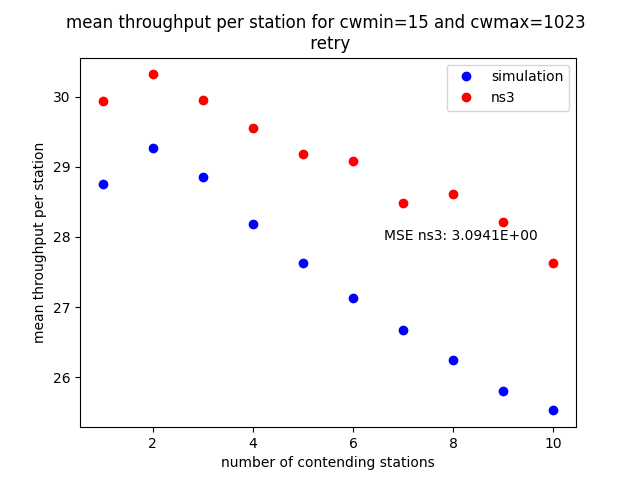
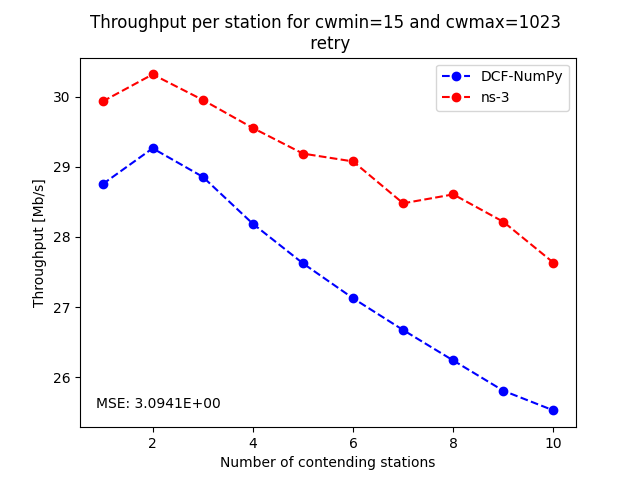
adds graphical improvements to graphs
* sentence case in labels and legends
* ns3 -> ns-3
* deletion of mean from titles
* connecting points with dashed line
* graphs/simulation_result_15_1023_retry.png moved to graphs/old

diff --git a/draw_graphs.py b/draw_graphs.py
@@ -8,7 +8,6 @@ cw_min = 15
 cw_max = 1023
 N = 10 #number of contending stations
 retry_limit = True
-no_stations = [i + 1 for i in range(N)]
 
 if retry_limit:
     retry = 'retry'
@@ -21,32 +20,31 @@ final_results = pd.read_csv(f'results/final_results_{cw_min}_{cw_max}_{retry}.cs
 MSE_model = np.square(np.subtract(final_results['p_coll_simulation'], final_results['p_coll_model'])).mean()
 MSE_matlab = np.square(np.subtract(final_results['p_coll_simulation'], final_results['p_coll_matlab'])).mean()
 MSE_ns3 = np.square(np.subtract(final_results['p_coll_simulation'], final_results['p_coll_ns3'])).mean()
-print(MSE_model)
-print(MSE_matlab)
 
 plt.figure()
 plt.plot(
-    no_stations,
+    final_results['N'],
     final_results['p_coll_simulation'],
-    'bo',
-    no_stations,
+    'bo--',
+    final_results['N'],
     final_results['p_coll_model'],
-    'ro',
-    no_stations,
+    'ro--',
+    final_results['N'],
     final_results['p_coll_matlab'],
-    'yo',
-    no_stations,
+    'yo--',
+    final_results['N'],
     final_results['p_coll_ns3'],
-    'co'
+    'co--'
     )
 
-plt.title(f"mean probability of collision for cwmin={cw_min} and cwmax={cw_max} \n {retry}")
-plt.xlabel('number of contending stations')
-plt.ylabel('mean probability of collision')
-plt.legend(['simulation', 'model', 'matlab simulation', 'ns3'])
-plt.figtext(0.6, 0.25, 'MSE model: %.4E' % Decimal(MSE_model))
-plt.figtext(0.6, 0.2, 'MSE matlab: %.4E' % Decimal(MSE_matlab))
-plt.figtext(0.6, 0.15, 'MSE ns3: %.4E' % Decimal(MSE_ns3))
+plt.title(f"Mean probability of collision for cwmin={cw_min} and cwmax={cw_max} \n {retry}")
+plt.xlabel('Number of contending stations')
+plt.ylabel('Probability of collision')
+plt.legend(['DCF-NumPy', 'Analytical model', 'Matlab simulation', 'ns-3'])
+plt.figtext(0.55, 0.3, 'MSE:')
+plt.figtext(0.55, 0.25, '* Analytical model: %.4E' % Decimal(MSE_model))
+plt.figtext(0.55, 0.2, '* Matlab: %.4E' % Decimal(MSE_matlab))
+plt.figtext(0.55, 0.15, '* Ns-3: %.4E' % Decimal(MSE_ns3))
 plt.savefig(f'results/graphs/p_coll_result_{cw_min}_{cw_max}_{retry}.png')
 
 #throughput graph
@@ -55,16 +53,16 @@ MSE_ns3_thr = np.square(np.subtract(final_results['throughput_simulation'], fina
 
 plt.figure()
 plt.plot(
-    no_stations,
+    final_results['N'],
     final_results['throughput_simulation'],
-    'bo',
-    no_stations,
+    'bo--',
+    final_results['N'],
     final_results['thr_ns3'],
-    'ro'
+    'ro--'
     )
-plt.title(f"throughput per station for cwmin={cw_min} and cwmax={cw_max} \n {retry}")
-plt.xlabel('number of contending stations')
-plt.ylabel('throughput [Mb/s]')
-plt.legend(['simulation', 'ns3'])
-plt.figtext(0.6, 0.5, 'MSE ns3: %.4E' % Decimal(MSE_ns3_thr))
+plt.title(f"Throughput per station for cwmin={cw_min} and cwmax={cw_max} \n {retry}")
+plt.xlabel('Number of contending stations')
+plt.ylabel('Throughput [Mb/s]')
+plt.legend(['DCF-NumPy', 'ns-3'])
+plt.figtext(0.15, 0.15, 'MSE: %.4E' % Decimal(MSE_ns3_thr))
 plt.savefig(f'results/graphs/throughput_result_{cw_min}_{cw_max}_{retry}.png')
